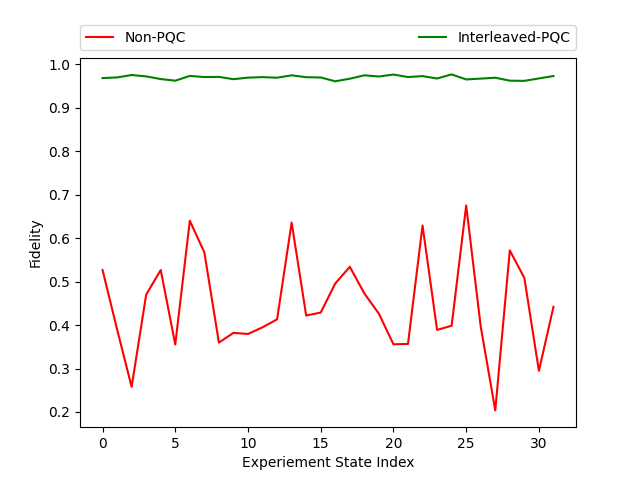
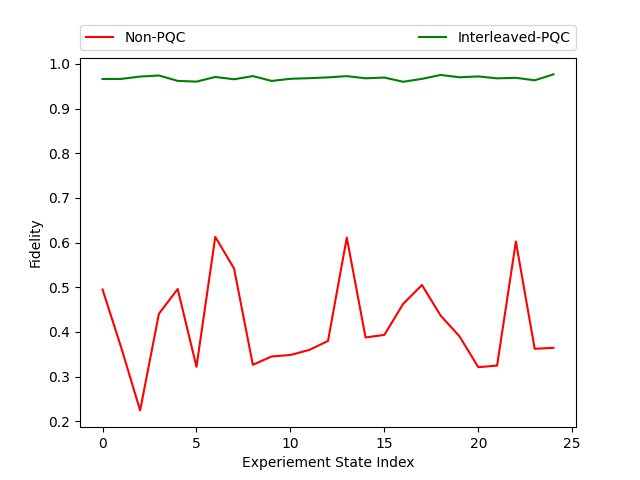
Some bugs ironed out

diff --git a/pqcqec/training/jax_train_functions.py b/pqcqec/training/jax_train_functions.py
@@ -164,7 +164,7 @@ def train_lel_zz_custom_statevec_with_uncomp(model, dataloader, optimizer, sched
             # Run model with current PQC parameters
             measured = model.run_model_batch(ideal_data, pre_q, theta, post_q)
             # With uncomputation, target is the input itself
-            return main_loss_fn(ideal_data, measured)
+            return jax.vmap(main_loss_fn, in_axes=(0, 0))(ideal_data, measured)
         
         # Compute loss and gradients w.r.t. all PQC parameters
         loss, grads = jax.value_and_grad(loss_fn, argnums=(0, 1, 2))(
@@ -255,7 +255,8 @@ def train_lel_zz_custom_statevec_no_uncomp(model, dataloader, optimizer, schedul
             # Run model with current PQC parameters
             measured = model.run_model_batch(input_data, pre_q, theta, post_q)
             # Target is the ideal noiseless output
-            return main_loss_fn(target_data, measured)
+            per_state_loss = jax.vmap(main_loss_fn, in_axes=(0, 0))(target_data, measured)
+            return jnp.mean(per_state_loss)
         
         # Compute loss and gradients w.r.t. all PQC parameters
         loss, grads = jax.value_and_grad(loss_fn, argnums=(0, 1, 2))(
@@ -714,4 +715,3 @@ def train_lel_zz_single_block_individual_no_uncomp(
 
     # print(f"    Noisy Block Fidelity (Ideal vs Noisy): {block_fidelity_ideal:.4e}")
     # print(f"    PQC Corrected Block Fidelity (Ideal vs PQC): {block_fidelity_pqc:.4e}")
-

diff --git a/pqcqec/utils/args.py b/pqcqec/utils/args.py
@@ -1,7 +1,36 @@
-
 import argparse
 import sys
 import os
+import ctypes
+from pathlib import Path
+
+
+def _preload_nvjitlink() -> None:
+    """Ensure the correct NVJitLink shared library is loaded before importing torch."""
+    if os.name != "posix":
+        return
+
+    lib_root = (
+        Path(sys.prefix)
+        / "lib"
+        / f"python{sys.version_info.major}.{sys.version_info.minor}"
+        / "site-packages"
+        / "nvidia"
+    )
+    candidate = lib_root / "nvjitlink" / "lib" / "libnvJitLink.so.12"
+    if not candidate.exists():
+        return
+
+    try:
+        ctypes.CDLL(
+            str(candidate),
+            mode=getattr(ctypes, "RTLD_GLOBAL", ctypes.RTLD_LOCAL),
+        )
+    except OSError:
+        pass
+
+
+_preload_nvjitlink()
 import torch
 from .constants import *
 import json

diff --git a/pqcqec/experiment/pqc_experiment.py b/pqcqec/experiment/pqc_experiment.py
@@ -277,8 +277,8 @@ def pqc_experiment_custom_statevec_runner(
     RESTART_PERIOD = int(0.25 * TOTAL_STEPS)
 
     INIT_LR = 1e-4
-    PEAK_LR = 1e-2
-    MIN_LR = 5e-4
+    PEAK_LR = 5e-3
+    MIN_LR = 5e-5
 
     # 1. Warmup schedule
     warmup = optax.linear_schedule(
